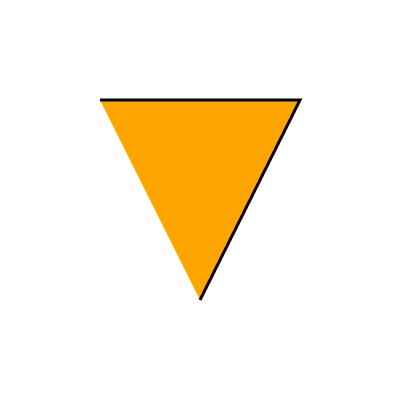
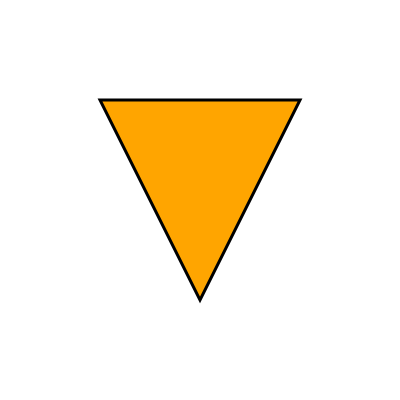
Fix parsing closed SVG paths

Changed region(s): [[0.24, 0.24, 0.51, 0.75]]

diff --git a/NGraphics/SvgReader.cs b/NGraphics/SvgReader.cs
@@ -490,11 +490,11 @@ namespace NGraphics
 
 		static readonly char[] WSC = new char[] { ',', ' ', '\t', '\n', '\r' };
 
+		static Regex pathRegex = new Regex(@"[MLHVCSQTAZmlhvcsqtaz](?:[0-9\.,\-\s]|$)+", RegexOptions.Singleline);
+
 		void ReadPath (Path p, string pathDescriptor)
 		{
-			Regex regex = new Regex(@"[MLHVCSQTAZmlhvcsqtaz][0-9\.,\-\s\n]+", RegexOptions.Singleline);
-
-			Match m = regex.Match(pathDescriptor);
+			Match m = pathRegex.Match(pathDescriptor);
 			while(m.Success)
 			{
 				var match = m.Value.Trim();
